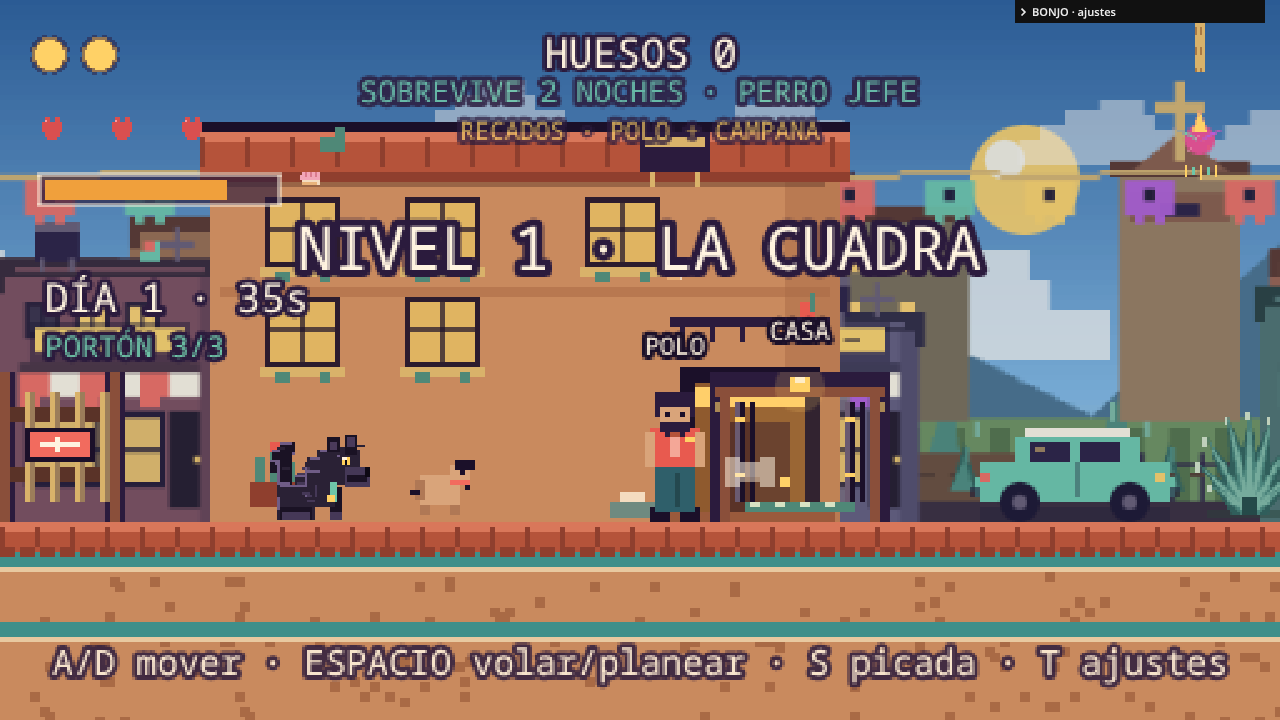
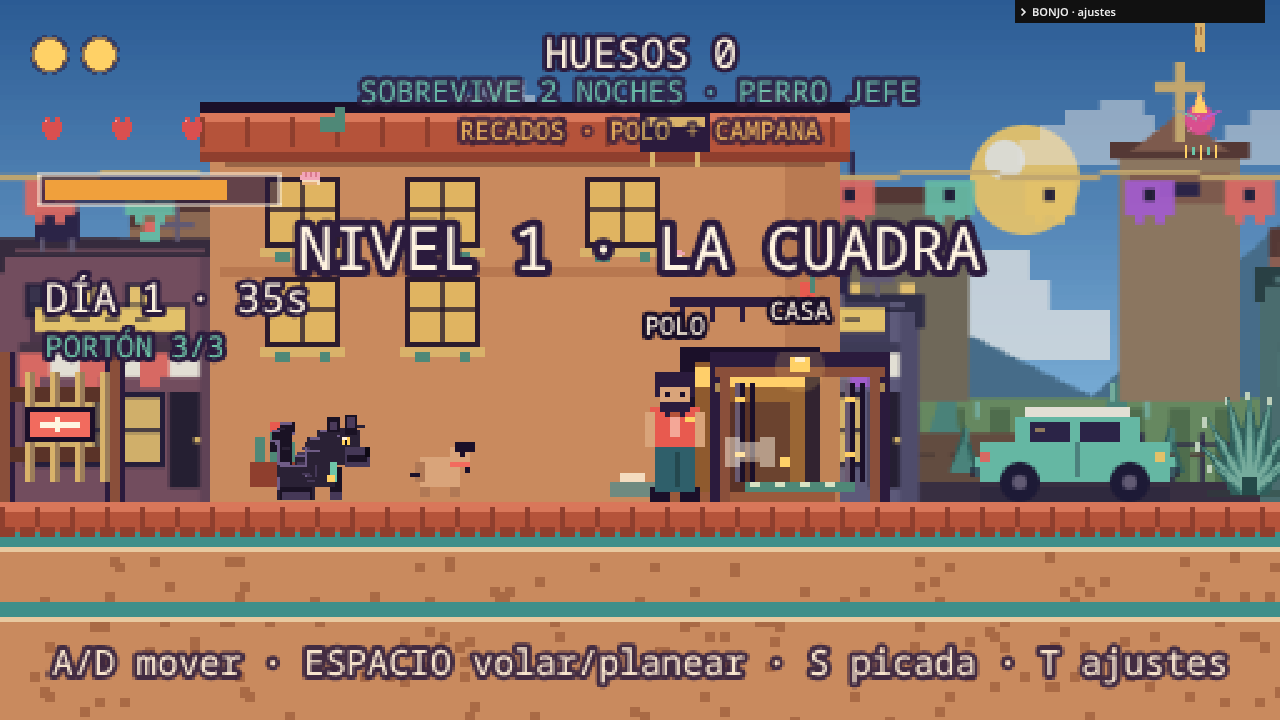
Stop platform-top jitter from camera rounding

diff --git a/src/scenes/Level1.js b/src/scenes/Level1.js
@@ -1286,7 +1286,11 @@ export default class Level1 extends Phaser.Scene {
   createCamera() {
     const cam = this.cameras.main;
     cam.setBounds(0, 0, WORLD_W, WORLD_H);
-    cam.startFollow(this.dog, true, tuning.cameraLerp, tuning.cameraLerp);
+    // Let the camera scroll at sub-pixel precision. Phaser rounds a
+    // roundPixels camera with floor(), so a lerped follow can stall up to
+    // 10px short of its target and then creep there in visible 1px steps.
+    // The renderer still snaps the world art to whole pixels.
+    cam.startFollow(this.dog, false, tuning.cameraLerp, tuning.cameraLerp);
     cam.setFollowOffset(0, 18 * S);
     cam.fadeIn(350, 27, 16, 41);
   }

diff --git a/src/objects/Dog.js b/src/objects/Dog.js
@@ -27,7 +27,10 @@ export default class Dog extends Phaser.Physics.Arcade.Sprite {
     scene.physics.add.existing(this);
 
     this.setDepth(10);
-    this.body.setSize(12.5 * S, 16.5 * S).setOffset(7.5, 7);
+    // Keep the collider on whole world pixels. A fractional offset makes an
+    // idle body land on a half-pixel seam, which can shimmer as the camera
+    // follows it across a platform.
+    this.body.setSize(13 * S, 16.5 * S).setOffset(7, 7);
     this.body.setMaxVelocity(430 * S, 1200 * S);
 
     this.controls = { cursors: null, wasd: null };
